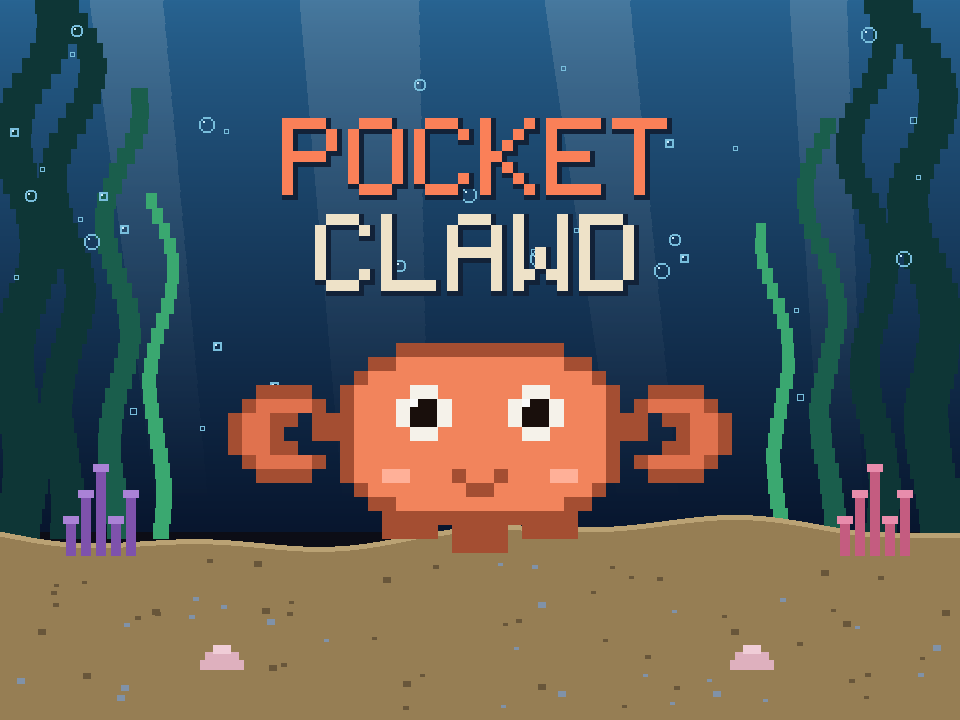
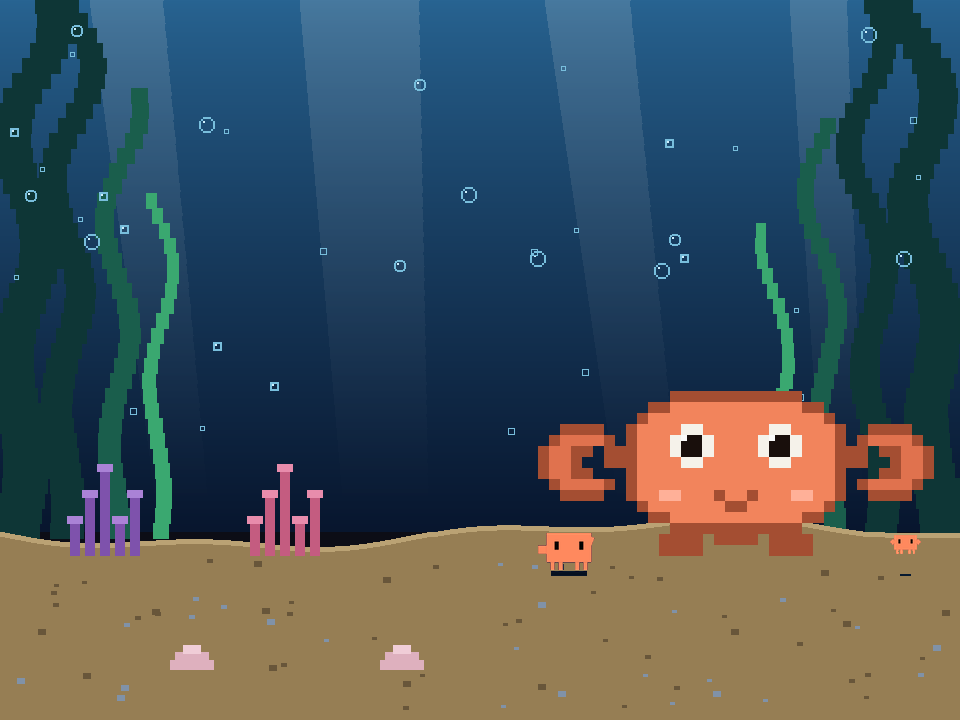
Move the background art clear of the carousel
The theme's carousel is type=vertical with logoAlignment=left, at zIndex 5
against our zIndex 3 - a stack of system logos covering roughly the left half
of the screen, on top of this image. Centring the crab put his face directly
behind it. This is also why the theme's own art for other systems is
right-aligned; that was the one property that mattered and I dropped it.

The crab and his friends now live in the right 45%, with his sprite size
derived from the space actually available so a claw can't hang off the edge.
The wordmark is gone: our carousel logo is already the crab plus the name, so
this was showing it twice. Left half stays quiet water and kelp.

diff --git a/tools/make_logo.py b/tools/make_logo.py
@@ -106,6 +106,10 @@ CORAL_PINK = (196, 92, 128)
 CORAL_PURPLE = (126, 82, 172)
 SHELL = (222, 176, 190)
 
+# The theme's vertical carousel covers roughly x 0.05-0.50 at a higher zIndex.
+# Everything that matters lives to the right of this.
+CLEAR_FROM = 0.55
+
 
 def scene(w=960, h=720):
     """The full-bleed carousel background.
@@ -113,8 +117,18 @@ def scene(w=960, h=720):
     This slot is `pos 0 0 / size 1 1` in the theme -- it is stretched over the
     entire screen -- so it is the background for our system rather than a badge
     sitting on top of one. Hence no frame and no panel: the water runs to all
-    four edges and the art has to work as a backdrop with the theme's own text
-    drawn over it. Authored 4:3 to match the panel it gets stretched onto.
+    four edges.
+
+    Crucially, the theme's carousel is `type vertical` with `logoAlignment
+    left`, at zIndex 5 against our zIndex 3. That means a stack of system logos
+    covers roughly the LEFT HALF of the screen, on top of this. So the crab
+    lives on the right and the left stays quiet open water -- which is exactly
+    why the theme's own art for other systems is right-aligned too.
+
+    No wordmark either: our carousel logo is already the crab plus the name, so
+    putting it here as well shows it twice.
+
+    Authored 4:3 to match the panel it gets stretched onto.
     """
     from PIL import Image
 
@@ -199,38 +213,41 @@ def scene(w=960, h=720):
         scr.rect(px, py, s + 2, s, SAND_D if rnd.random() < 0.6 else (128, 146, 168))
 
     # coral and shells, low and to the sides so the crab keeps the middle
-    for cx, base_col, tip in ((66, CORAL_PURPLE, (170, 130, 214)),
-                              (w - 120, CORAL_PINK, (232, 140, 172))):
+    for cx, base_col, tip in ((70, CORAL_PURPLE, (170, 130, 214)),
+                              (250, CORAL_PINK, (232, 140, 172))):
         for i in range(5):
             bx = cx + i * 15
             bh = 40 + (i % 3) * 26
             scr.rect(bx, sand_y + 24 - bh, 10, bh, base_col)
             scr.rect(bx - 3, sand_y + 24 - bh, 16, 8, tip)
-    for sx in (200, w - 230):
+    for sx in (170, 380):
         sy = h - 60
         scr.rect(sx, sy, 44, 10, SHELL)
         scr.rect(sx + 5, sy - 8, 34, 10, SHELL)
         scr.rect(sx + 13, sy - 15, 18, 9, (240, 205, 215))
 
-    # the crab, centre stage. `floor` is where his legs land, so it wants to be
-    # just below the sand line -- much lower and he's buried to the shoulders.
-    sc = 14
-    floor = sand_y + 34
+    # The crab, in the right-hand region the logo stack can't reach. He is 36
+    # sprite cells wide with both claws out, so derive the cell size from the
+    # space available rather than picking one and clipping a claw off the edge.
+    clear_x0, clear_x1 = int(w * CLEAR_FROM), w - 16
+    sc = max(6, min(13, (clear_x1 - clear_x0 - 20) // 36))
+    centre = (clear_x0 + clear_x1) // 2
+    floor = sand_y + 36
     pet = clawd.Clawd(0, floor, sc=sc)
-    pet.x = float(w // 2 - 10 * sc)
+    pet.x = float(centre - 10 * sc)              # he spans x-8*sc .. x+28*sc
     pet.blink_until = 0
     pet.next_blink = clawd.time.time() + 9999
     pet.pcur = [0.0, 0.0]
     pet.pupil = (0, 0)
     pet.draw(scr, 0)
 
-    # wordmark, two lines, in the reference's coral-over-cream
-    for text, ty, col in (("POCKET", 118, clawd.ACCENT), ("CLAWD", 214, (238, 226, 200))):
-        ts = 11
-        tx = (w - scr.text_w(text, ts)) // 2
-        for dx, dy in ((0, 5), (5, 0), (5, 5)):
-            scr.text(tx + dx, ty + dy, text, (18, 34, 56), ts)
-        scr.text(tx, ty, text, col, ts)
+    # a couple of friends in front, so it reads as the tank and not a mascot
+    if clawd.PETS:
+        for name, fx in (("waving", clear_x0 + 40), ("happy", clear_x1 - 40)):
+            if name in clawd.PETS:
+                fr = clawd.Friend(name, fx, floor + 8)
+                fr.next_hop = clawd.time.time() + 9999
+                fr.draw(scr)
 
     return Image.frombytes("RGBA", (w, h), bytes(scr.buf), "raw", "BGRA").convert("RGB")
 
